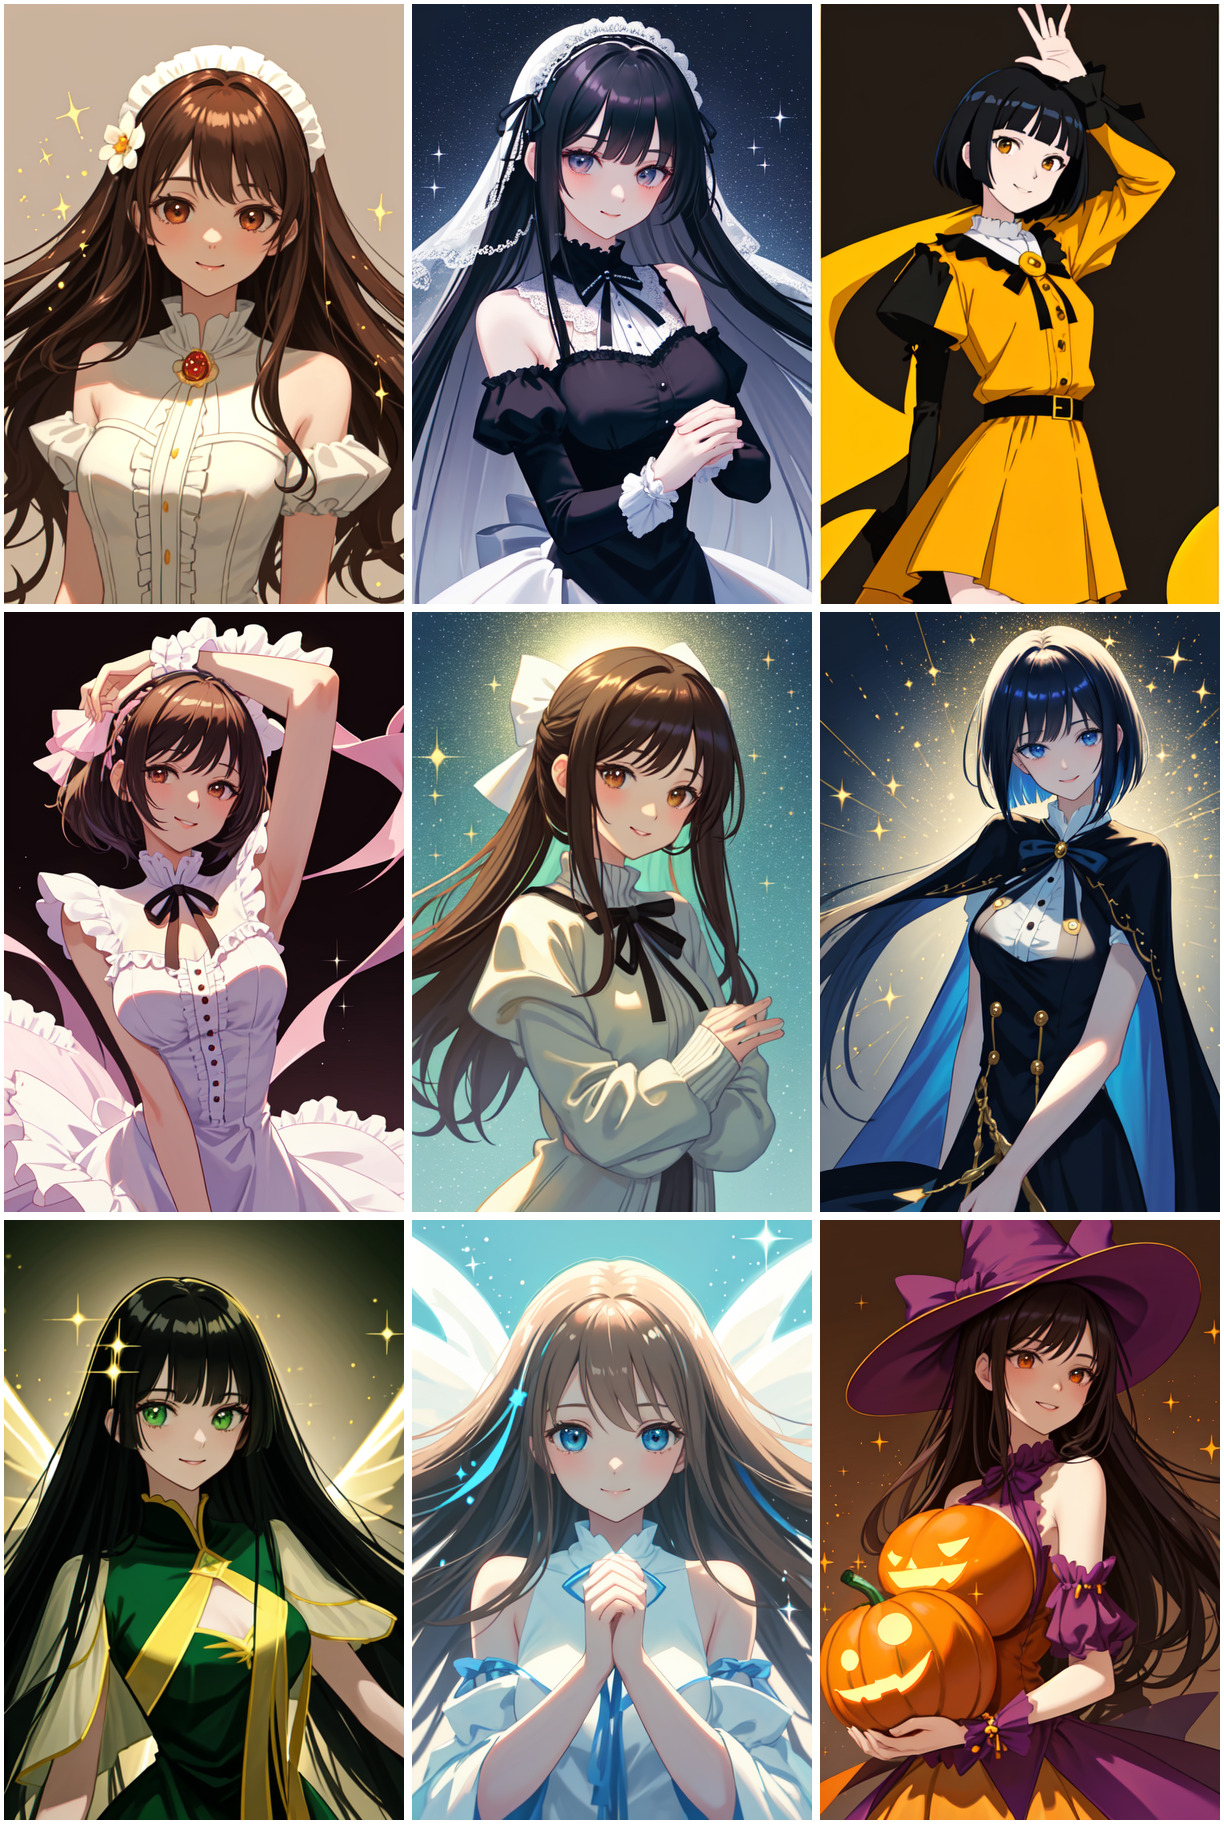
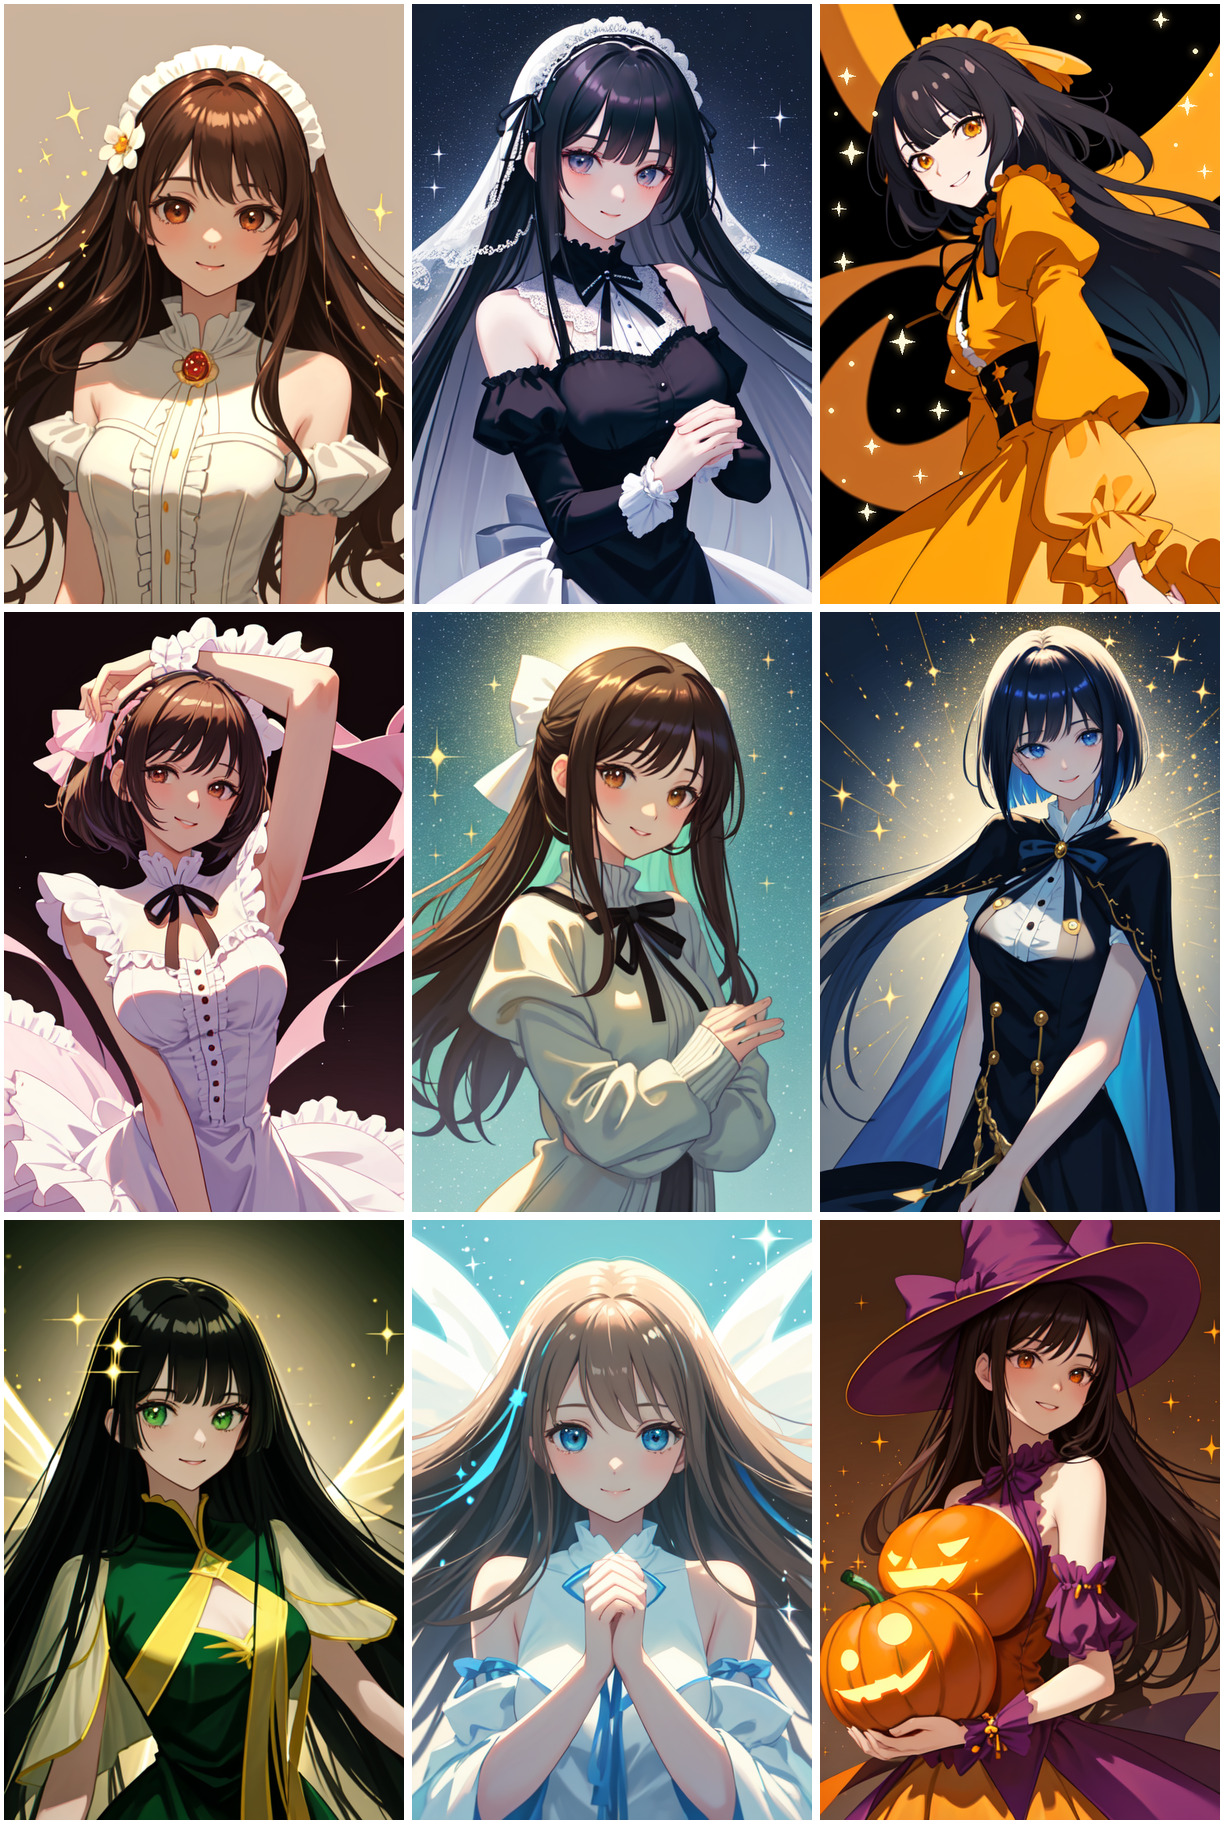
アニメB 03: 背景にキラキラを追加(人物は変更なし)、キラキラ追加スクリプト
Claude-Session: https://claude.ai/code/session_0113YPYwcnftxFc8SGzBWbWR

Changed region(s): [[0.652, 0.0, 1.0, 0.3438]]

diff --git a/scripts/add_sparkles.py b/scripts/add_sparkles.py
@@ -1,0 +1,44 @@
+"""背景にキラキラ(4つの尖った星と小さな光の粒)を足すプログラム。人物には触れない(位置を手で指定)。
+
+使い方: python scripts/add_sparkles.py 元画像.png 出力.png
+(ユーザーの個別の依頼で、03番のBに使った。部分修正の一種なので、依頼があるときだけ使うこと。)
+"""
+import sys
+
+import numpy as np
+from PIL import Image, ImageDraw, ImageFilter
+
+src, dst = sys.argv[1], sys.argv[2]
+im = Image.open(src).convert("RGB")
+W, H = im.size
+# (x, y, 半径): 背景(黒・オレンジのうねり)の上だけに置く。髪・服の上には置かない
+STARS = [(34, 92, 11), (40, 190, 15), (24, 262, 9), (105, 432, 16), (152, 520, 12), (66, 566, 10), (128, 604, 9),
+         (436, 20, 10), (470, 130, 12), (492, 214, 9), (30, 330, 12), (60, 650, 11)]
+DOTS = [(70, 140, 3), (20, 140, 2), (90, 400, 3), (170, 470, 2), (40, 460, 3), (180, 600, 2), (480, 60, 3), (455, 180, 2),
+        (500, 90, 2), (14, 520, 3), (100, 520, 2), (30, 610, 2), (330, 16, 3)]
+
+
+def star_layer(sx, r):
+    layer = Image.new("RGBA", (W, H), (0, 0, 0, 0))
+    d = ImageDraw.Draw(layer)
+    for x, y, rad in sx:
+        k = rad * 0.22
+        pts = [(x, y - rad), (x + k, y - k), (x + rad, y), (x + k, y + k), (x, y + rad), (x - k, y + k), (x - rad, y), (x - k, y - k)]
+        d.polygon(pts, fill=(255, 250, 220, 255))
+    return layer
+
+
+sparkle = star_layer(STARS, 1)
+dots = Image.new("RGBA", (W, H), (0, 0, 0, 0))
+dd = ImageDraw.Draw(dots)
+for x, y, r in DOTS:
+    dd.ellipse((x - r, y - r, x + r, y + r), fill=(255, 245, 200, 255))
+glow = Image.alpha_composite(sparkle, dots).filter(ImageFilter.GaussianBlur(5))
+a_glow = np.asarray(glow)[..., 3:4] / 255.0 * 0.85
+base = np.asarray(im, dtype=np.float64)
+out = base * (1 - a_glow) + np.array([255, 215, 120]) * a_glow           # やわらかい光
+core = Image.alpha_composite(sparkle, dots)
+a_core = np.asarray(core)[..., 3:4] / 255.0
+out = out * (1 - a_core) + np.asarray(core)[..., :3] * a_core            # 白い芯
+Image.fromarray(np.clip(out, 0, 255).astype(np.uint8)).save(dst)
+print("保存:", dst)
